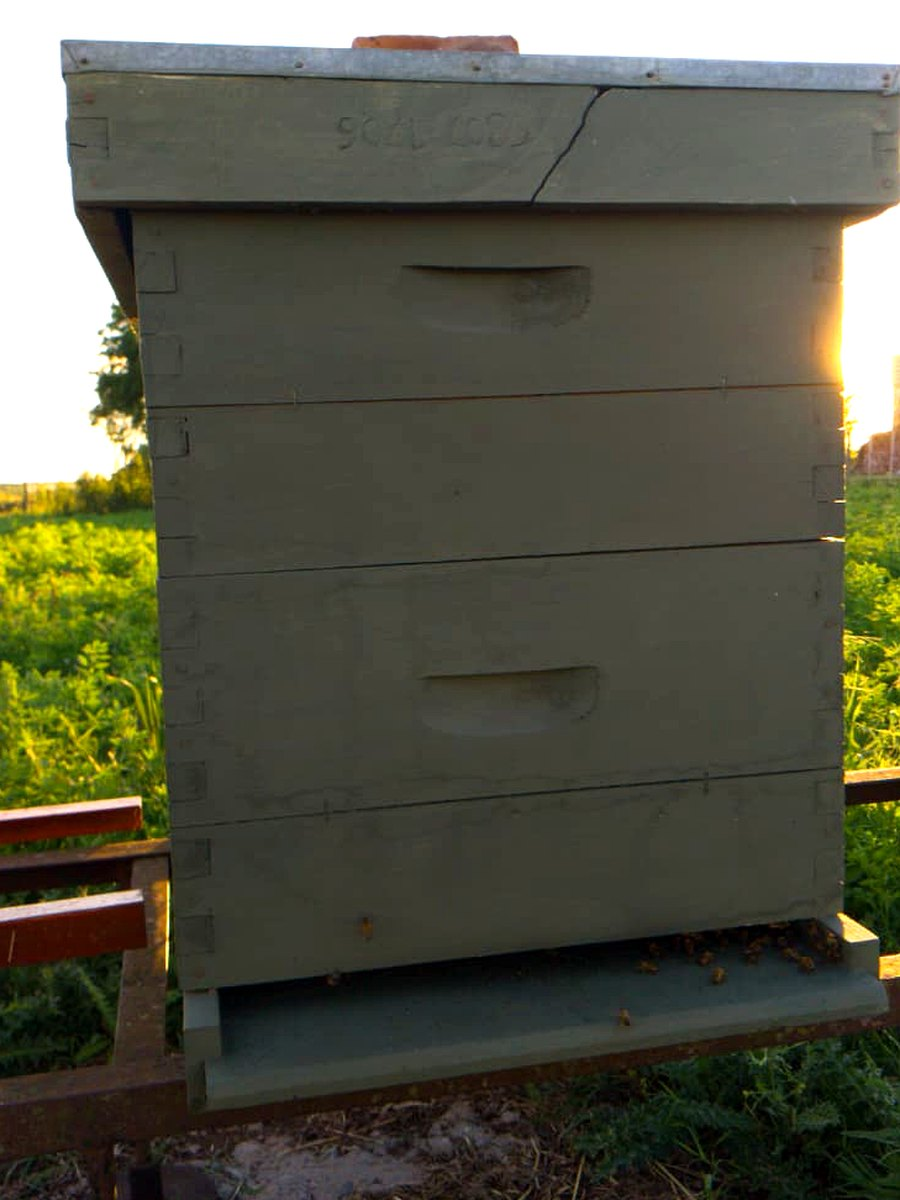
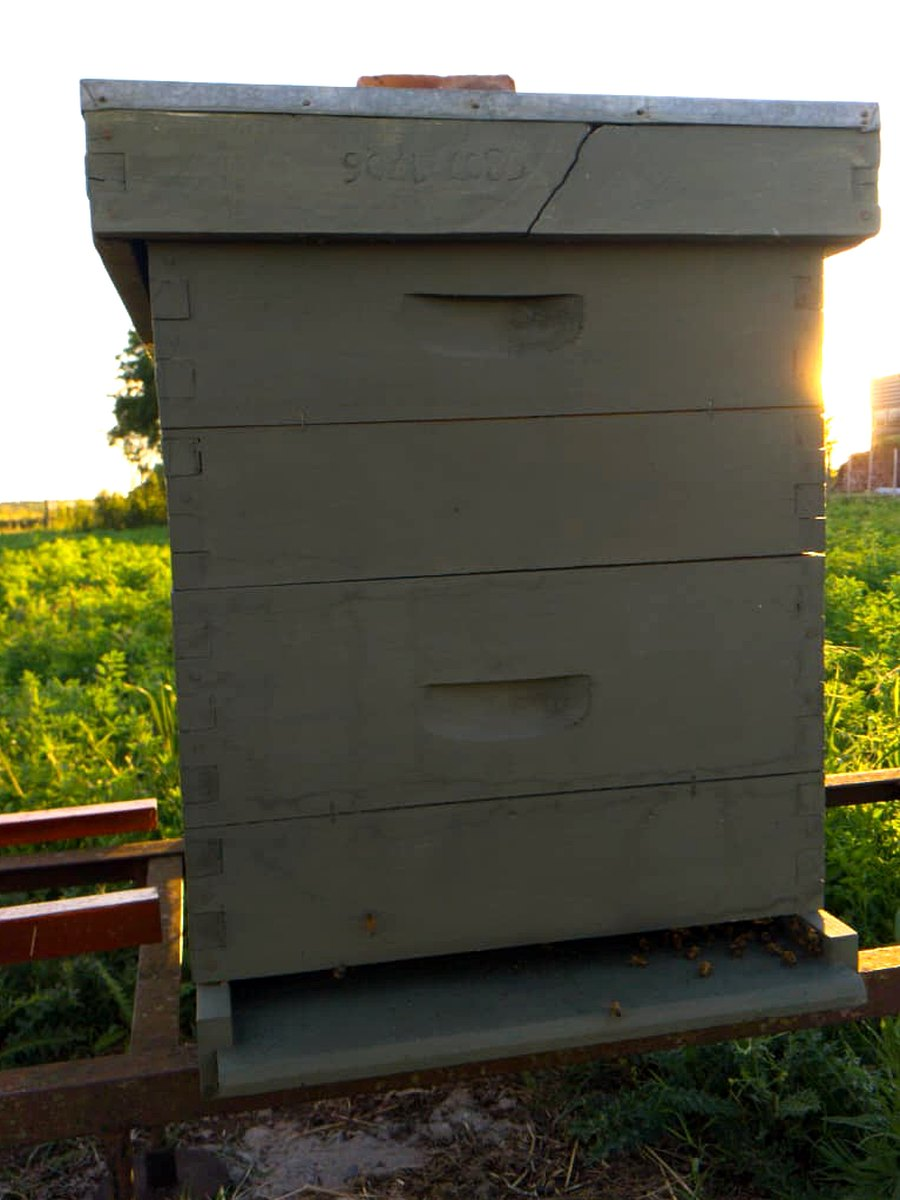
Prefer individual hive photos in hero and historia
Replace wide five-hive group shots with detailed single-hive crops
(olive hero, yellow historia) per owner feedback.

diff --git a/index.html b/index.html
@@ -8,7 +8,7 @@
   <link rel="preconnect" href="https://fonts.googleapis.com">
   <link rel="preconnect" href="https://fonts.gstatic.com" crossorigin>
   <link href="https://fonts.googleapis.com/css2?family=Fraunces:opsz,wght@9..144,500;9..144,650;9..144,700&family=Sora:wght@400;500;600&display=swap" rel="stylesheet">
-  <link rel="stylesheet" href="css/styles.css?v=20261122-hives">
+  <link rel="stylesheet" href="css/styles.css?v=20261123-hive-detail">
 </head>
 <body>
   <a class="skip-link" href="#contenido">Saltar al contenido</a>
@@ -34,10 +34,10 @@
     <section id="inicio" class="hero" aria-labelledby="marca">
       <div class="hero__atmosphere" aria-hidden="true">
         <picture>
-          <source type="image/webp" srcset="assets/photos/hero-apiario.webp">
+          <source type="image/webp" srcset="assets/photos/hero-colmena-oliva.webp">
           <img
             class="hero__photo"
-            src="assets/photos/hero-apiario.jpg"
+            src="assets/photos/hero-colmena-oliva.jpg"
             alt=""
             width="1600"
             height="1000"
@@ -126,16 +126,16 @@
         </div>
         <figure class="story__media reveal">
           <picture>
-            <source type="image/webp" srcset="assets/photos/colmenas-fila.webp">
+            <source type="image/webp" srcset="assets/photos/historia-colmena-amarilla.webp">
             <img
-              src="assets/photos/colmenas-fila.jpg"
-              alt="Fila de colmenas de madera en el apiario de Naturaleza Activa, Lobos, rodeadas de pasto alto"
+              src="assets/photos/historia-colmena-amarilla.jpg"
+              alt="Colmena de madera amarilla de Naturaleza Activa en el campo de Lobos, bañada por la luz del atardecer"
               width="1200"
               height="750"
               loading="lazy"
             >
           </picture>
-          <figcaption>Colmenas en el campo de Lobos — de acá sale la miel.</figcaption>
+          <figcaption>Una colmena en el campo de Lobos — de acá sale la miel.</figcaption>
         </figure>
       </div>
     </section>

diff --git a/css/styles.css b/css/styles.css
@@ -276,7 +276,7 @@ p:last-child {
   width: 100%;
   height: 100%;
   object-fit: cover;
-  object-position: 58% 42%;
+  object-position: 52% 40%;
   transform: scale(1.04);
   animation: hero-drift 22s ease-in-out infinite alternate;
 }
